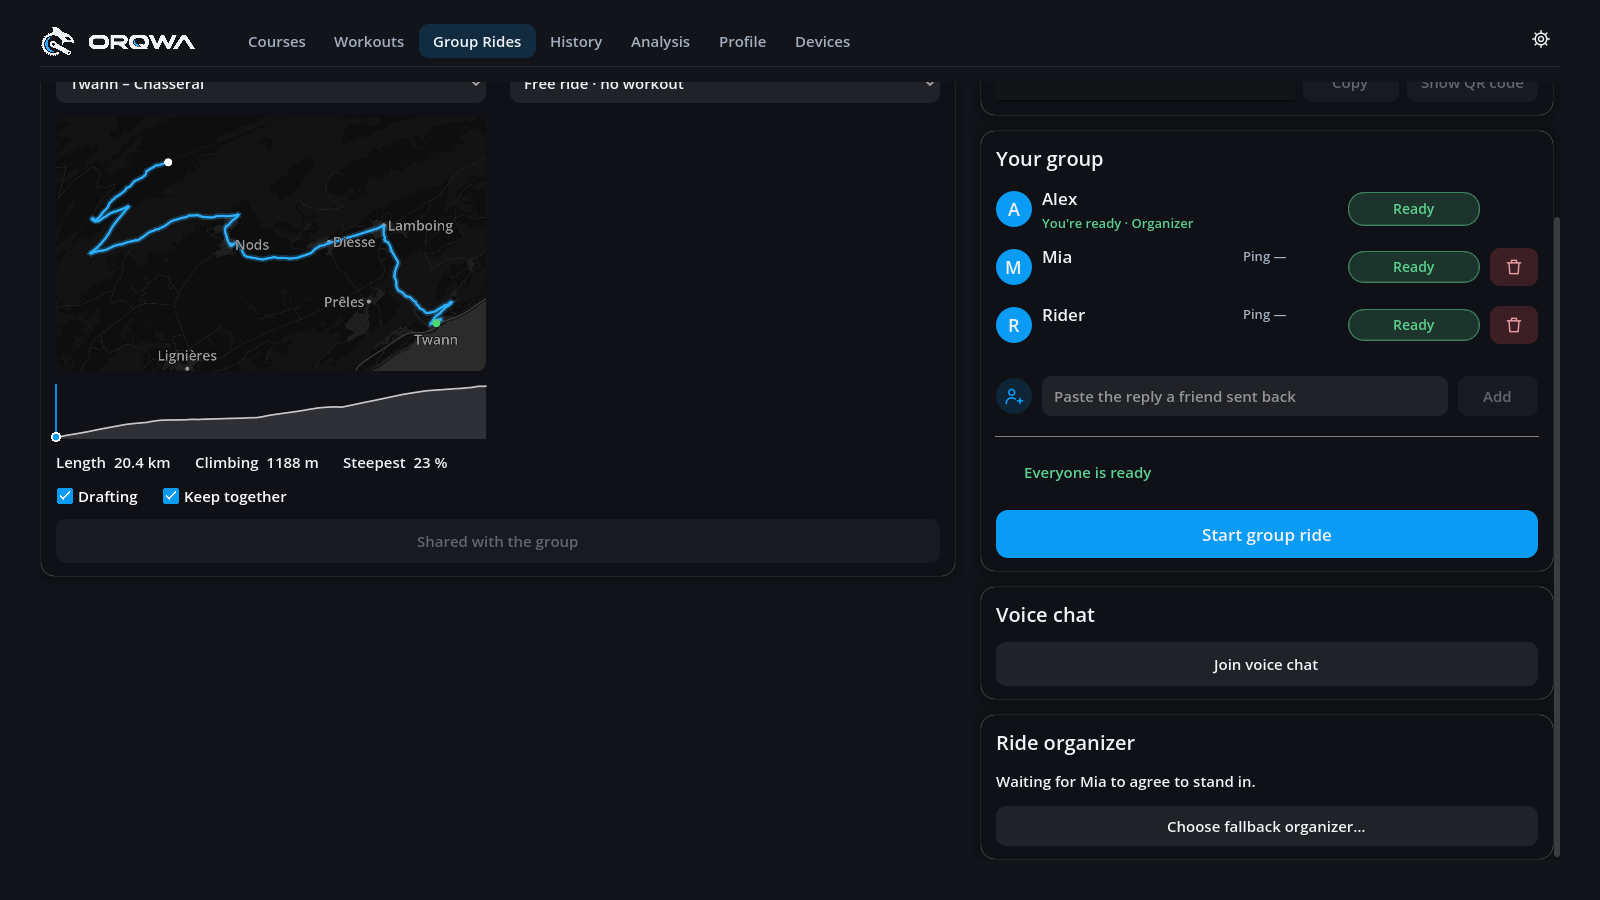
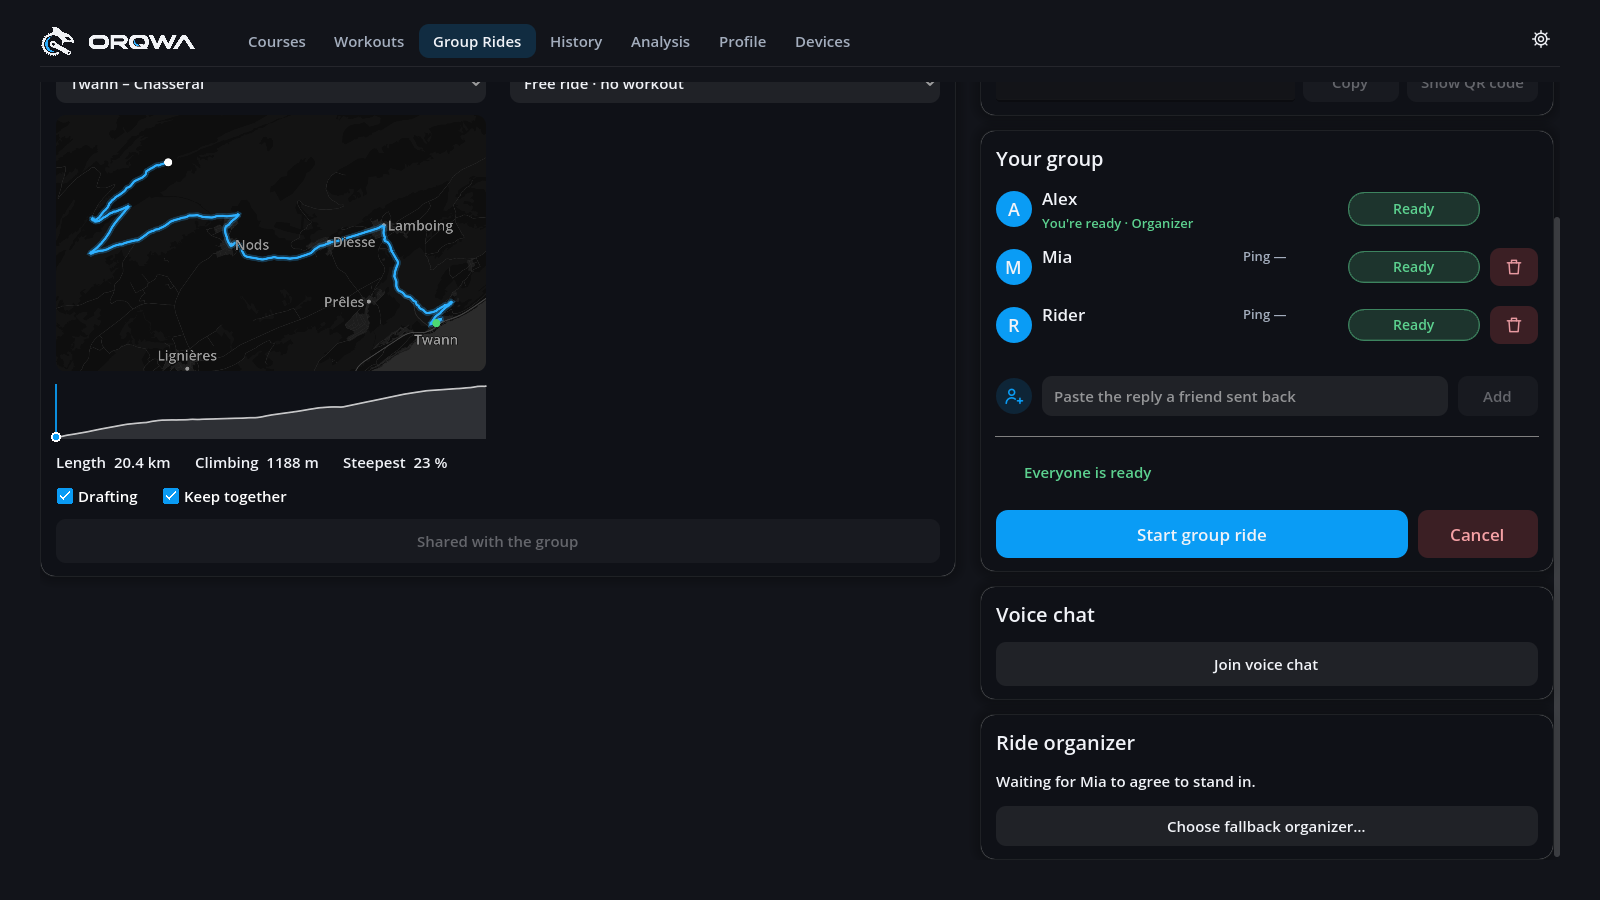
feat(group rides): cancel a shared course or workout before the start
The organizer can now withdraw what they shared while friends still download or
build it, not only during the countdown (#556, R252). Cancel stands beside Start
group ride; it stops friends' downloads and world building and returns everyone
to the lobby, still connected and with voice.

Closes #556

Changed region(s): [[0.875, 0.56, 0.9688, 0.6222], [0.7188, 0.5911, 0.8438, 0.6222]]

diff --git a/core/orqwa-gd/src/group.rs b/core/orqwa-gd/src/group.rs
@@ -89,7 +89,7 @@ pub(super) fn status(app: &App) -> VarDictionary {
         .preferred_fallback
         .and_then(|id| status.roster[usize::from(id)].as_ref())
         .map_or("", |rider| rider.name.as_str());
-    vdict! {"handover"=>status.handover.key(),"successor_name"=>successor_name,"handover_offer"=>status.handover==orqwa_app::group::Handover::Offered && status.successor==Some(status.me),"can_handover"=>status.can_handover(),"can_cancel_handover"=>status.handover!=orqwa_app::group::Handover::Idle && status.handover!=orqwa_app::group::Handover::Committing && (status.host || status.successor==Some(status.me)),"phase"=>status.phase.key(),"host"=>status.host,"invite"=>status.invite.as_str(),"reply"=>status.reply.as_str(),"reply_s"=>status.reply_until.map_or(0.0,|until|until.saturating_duration_since(std::time::Instant::now()).as_secs_f64()),"reply_expired"=>status.reply_expired,"admitting"=>i64::from(status.admitting),"refusal"=>status.refusal.key(),"refusals"=>i64::from(status.refusals),"refused"=>status.refused.as_str(),"reachability"=>status.reachability.map_or("",|reach| reach.key()),"prepared"=>status.prepared,"received"=>i64::try_from(status.received).unwrap_or(0),"total"=>i64::try_from(status.total).unwrap_or(0),"ready"=>status.ready[usize::from(status.me)],"can_start"=>status.can_start(),"workout_shared"=>status.plan.is_some() && matches!(status.phase,orqwa_app::group::Phase::Countdown | orqwa_app::group::Phase::Riding),"workout_paused"=>status.workout_clock.is_some_and(|clock|clock.paused),"local_paused"=>app.is_paused(),"can_control_workout"=>status.can_control_workout(),"workout_complete"=>status.workout_finished(),"late"=>status.late,"can_enter"=>status.can_enter(),"entering"=>status.entering,"name"=>status.selection.as_ref().map_or("",|s|s.name.as_str()),"error"=>status.error.as_str(),"can_retry"=>status.can_retry(),"activity_failed"=>status.activity_failed,"roster"=>&roster,"devices"=>&devices,"input_device"=>status.input_device.as_str(),"output_device"=>status.output_device.as_str(),"voice_volume"=>status.voice_volume,"echo_prevention"=>status.echo_prevention,"output_name"=>status.output_name.as_str(),"ask_listening"=>status.ask_listening,"microphone_test"=>status.microphone_test,"microphone_level"=>status.microphone_level,"speaker_test"=>status.speaker_test,"microphone_voice_detected"=>status.microphone_voice_detected,"microphone_voice_heard"=>status.microphone_voice_heard,"microphone_checked"=>status.microphone_checked,"voice"=>status.voice,"voice_pending"=>status.voice_pending,"microphone"=>status.microphone,"deafened"=>status.deafened,"countdown_s"=>status.start.map_or(0.0,|at|at.saturating_duration_since(std::time::Instant::now()).as_secs_f64()),"drafting"=>status.assistance.drafting,"keep_together"=>status.assistance.keep_together,"workout_id"=>status.workout_id.as_str(),"course_path"=>status.course.as_ref().map_or(String::new(),|p|p.display().to_string()),
+    vdict! {"handover"=>status.handover.key(),"successor_name"=>successor_name,"handover_offer"=>status.handover==orqwa_app::group::Handover::Offered && status.successor==Some(status.me),"can_handover"=>status.can_handover(),"can_cancel_handover"=>status.handover!=orqwa_app::group::Handover::Idle && status.handover!=orqwa_app::group::Handover::Committing && (status.host || status.successor==Some(status.me)),"phase"=>status.phase.key(),"host"=>status.host,"invite"=>status.invite.as_str(),"reply"=>status.reply.as_str(),"reply_s"=>status.reply_until.map_or(0.0,|until|until.saturating_duration_since(std::time::Instant::now()).as_secs_f64()),"reply_expired"=>status.reply_expired,"admitting"=>i64::from(status.admitting),"refusal"=>status.refusal.key(),"refusals"=>i64::from(status.refusals),"refused"=>status.refused.as_str(),"reachability"=>status.reachability.map_or("",|reach| reach.key()),"prepared"=>status.prepared,"received"=>i64::try_from(status.received).unwrap_or(0),"total"=>i64::try_from(status.total).unwrap_or(0),"ready"=>status.ready[usize::from(status.me)],"can_start"=>status.can_start(),"can_cancel"=>status.can_cancel_activity(),"workout_shared"=>status.plan.is_some() && matches!(status.phase,orqwa_app::group::Phase::Countdown | orqwa_app::group::Phase::Riding),"workout_paused"=>status.workout_clock.is_some_and(|clock|clock.paused),"local_paused"=>app.is_paused(),"can_control_workout"=>status.can_control_workout(),"workout_complete"=>status.workout_finished(),"late"=>status.late,"can_enter"=>status.can_enter(),"entering"=>status.entering,"name"=>status.selection.as_ref().map_or("",|s|s.name.as_str()),"error"=>status.error.as_str(),"can_retry"=>status.can_retry(),"activity_failed"=>status.activity_failed,"roster"=>&roster,"devices"=>&devices,"input_device"=>status.input_device.as_str(),"output_device"=>status.output_device.as_str(),"voice_volume"=>status.voice_volume,"echo_prevention"=>status.echo_prevention,"output_name"=>status.output_name.as_str(),"ask_listening"=>status.ask_listening,"microphone_test"=>status.microphone_test,"microphone_level"=>status.microphone_level,"speaker_test"=>status.speaker_test,"microphone_voice_detected"=>status.microphone_voice_detected,"microphone_voice_heard"=>status.microphone_voice_heard,"microphone_checked"=>status.microphone_checked,"voice"=>status.voice,"voice_pending"=>status.voice_pending,"microphone"=>status.microphone,"deafened"=>status.deafened,"countdown_s"=>status.start.map_or(0.0,|at|at.saturating_duration_since(std::time::Instant::now()).as_secs_f64()),"drafting"=>status.assistance.drafting,"keep_together"=>status.assistance.keep_together,"workout_id"=>status.workout_id.as_str(),"course_path"=>status.course.as_ref().map_or(String::new(),|p|p.display().to_string()),
     // Asked to stand in as organizer if the organizer is lost; the organizer may pick another.
     "standby_offer"=>status.standby_offer,"can_choose_fallback"=>status.can_choose_fallback(),"preferred_fallback"=>preferred_fallback,"preferred_fallback_accepted"=>status.preferred_fallback_accepted,"fallback_consent"=>status.fallback_consent.map_or(String::new(),|epoch|epoch.to_string()),
     // How long this rider keeps trying to reconnect, 0 while connected (#434).

diff --git a/core/orqwa-app/src/group/tests.rs b/core/orqwa-app/src/group/tests.rs
@@ -2327,6 +2327,60 @@ fn a_late_lobby_admission_receives_the_already_selected_course_without_a_local_c
 }
 
 #[test]
+fn the_organizer_withdraws_a_shared_course_while_friends_still_prepare_it() {
+    // #556: the organizer need not wait for everyone to be ready to change their mind.
+    let from = Directory::new();
+    let to = Directory::new();
+    let mut host = from.app();
+    let mut peer = to.app();
+    host.group_open(None, options()).unwrap();
+    wait(&mut host, &mut peer, |h, _| !h.group().invite.is_empty());
+    peer.group_open(Some(host.group().invite), options())
+        .unwrap();
+    wait(&mut host, &mut peer, |_, p| !p.group().reply.is_empty());
+    host.group_admit(&peer.group().reply).unwrap();
+    wait(&mut host, &mut peer, |h, p| {
+        h.group().roster.iter().flatten().count() == 2 && p.group().phase == Phase::Waiting
+    });
+    assert!(
+        !host.group().can_cancel_activity(),
+        "nothing is shared to withdraw"
+    );
+    host.group_select(Some(sample_course()), None).unwrap();
+    wait(&mut host, &mut peer, |h, p| {
+        h.group().can_cancel_activity()
+            && matches!(p.group().phase, Phase::Downloading | Phase::Preparing)
+    });
+    assert!(
+        peer.group_end_activity().is_err(),
+        "only the organizer withdraws the group's course"
+    );
+    host.group_end_activity().unwrap();
+    wait(&mut host, &mut peer, |h, p| {
+        h.group().phase == Phase::Waiting && p.group().phase == Phase::Waiting
+    });
+    for app in [&host, &peer] {
+        let status = app.group();
+        assert!(status.selection.is_none() && status.course.is_none());
+        assert!(!status.prepared && !status.ready.contains(&true));
+        assert!(app.group.as_ref().unwrap().preparing.is_none());
+        assert_eq!(status.roster.iter().flatten().count(), 2);
+    }
+    // What was withdrawn is not prepared afterwards, and something else can be shared.
+    for _ in 0..60 {
+        host.update(Duration::from_millis(16));
+        peer.update(Duration::from_millis(16));
+        assert!(peer.group().selection.is_none() && peer.world.is_none());
+        std::thread::sleep(Duration::from_millis(5));
+    }
+    host.group_select(None, Some("builtin:recovery-30"))
+        .unwrap();
+    wait(&mut host, &mut peer, |h, p| {
+        h.group().prepared && p.group().prepared && p.group().course.is_none()
+    });
+}
+
+#[test]
 fn a_friend_rides_their_own_copy_of_the_course_under_any_name_without_downloading_it() {
     use orqwa_storage::course;
     // #435: the organizer sent the course beforehand; the friend imported it under their own

diff --git a/core/orqwa-app/src/group.rs b/core/orqwa-app/src/group.rs
@@ -499,6 +499,19 @@ impl Snapshot {
             && self.start.is_some()
             && self.selection.is_some()
     }
+    /// The organizer may withdraw a shared activity before the start, also while friends
+    /// still download or build it (#556).
+    #[must_use]
+    pub fn can_cancel_activity(&self) -> bool {
+        self.host
+            && self.handover == Handover::Idle
+            && matches!(
+                self.phase,
+                Phase::Waiting | Phase::Downloading | Phase::Preparing | Phase::Ready
+            )
+            && self.start.is_none()
+            && self.selection.is_some()
+    }
     /// Tells the organizer why their pasted reply added nobody (R195).
     pub(crate) fn refuse(&mut self, refusal: Refusal) {
         self.refused.clear();
@@ -864,13 +877,14 @@ impl App {
                 }
             })
     }
-    /// Ends the shared activity for everyone and keeps this lobby for the next selection.
+    /// Ends the shared activity for everyone, or withdraws it before the start, and keeps
+    /// this lobby for the next selection.
     ///
     /// # Errors
-    /// Returns [`AppError`] unless organizing an active activity with an available queue.
+    /// Returns [`AppError`] unless organizing a shared activity with an available queue.
     pub fn group_end_activity(&mut self) -> Result<(), AppError> {
         let status = self.group();
-        if !status.can_end_activity() {
+        if !status.can_end_activity() && !status.can_cancel_activity() {
             return Err(error(
                 "Only the organizer can end the current group activity.",
             ));

diff --git a/core/orqwa-app/src/group/runtime.rs b/core/orqwa-app/src/group/runtime.rs
@@ -581,8 +581,10 @@ async fn run_inner(
                     }
                     Command::Start => start(&session,snapshot).await,
                     Command::End(revision) => async {
-                        if snapshot.host && snapshot.start.is_some() && snapshot.selection.as_ref().is_some_and(|s| s.revision == revision) {
+                        if snapshot.host && snapshot.selection.as_ref().is_some_and(|s| s.revision == revision) {
                             handover.cancel(&session,snapshot)?;
+                            // A newer choice still being hashed would otherwise be shared after the end.
+                            jobs.abort_all(); while jobs.join_next().await.is_some() {}
                             if let Session::Host(lobby) = &session {lobby.end_activity(revision).await.map_err(|error|error.to_string())?;}
                         }
                         Ok(())

diff --git a/core/orqwa-net/src/lobby.rs b/core/orqwa-net/src/lobby.rs
@@ -652,10 +652,11 @@ impl HostLobby {
             .map_err(|_| LobbyError::Lost)?;
         receive.await.map_err(|_| LobbyError::Lost)?
     }
-    /// Ends the current activity for everyone, preserving connections and voice.
+    /// Ends the current activity for everyone, preserving connections and voice. Before the
+    /// countdown this withdraws the selection while riders still download or build it.
     ///
     /// # Errors
-    /// Returns [`LobbyError`] for an obsolete revision, inactive activity or unavailable queue.
+    /// Returns [`LobbyError`] for an obsolete revision, no selection or an unavailable queue.
     pub async fn end_activity(&self, revision: u64) -> Result<(), LobbyError> {
         let (send, receive) = oneshot::channel();
         self.commands

diff --git a/core/orqwa-net/src/lobby/activity.rs b/core/orqwa-net/src/lobby/activity.rs
@@ -144,9 +144,10 @@ impl Activities {
         self.announced = (None, None);
         Ok(())
     }
+    /// Ends the selected `revision` for everyone, also before the countdown while riders
+    /// still download or build it (#556).
     pub(super) fn end(&mut self, revision: u64) -> Result<(), LobbyError> {
         if !self.enabled
-            || !self.started
             || self
                 .lobby
                 .selection()

diff --git a/docs/REQUIREMENTS.md b/docs/REQUIREMENTS.md
@@ -711,3 +711,4 @@ Click, R75), and a Zwift Click v2 (R77, R96).
 |---|---|
 | R250 | Extends R186 and R248 (2026-11-15, #536): when the network under a friend's ORQWA changes (another Wi-Fi, a cable, a new address), ORQWA notices **within seconds** rather than after the connection's 30 s timeout, starts reconnecting at once and says that reconnecting cannot work from the changed network: the page offers **Join again** at once, and no **Reconnect now**. Join again is offered **while reconnecting** too, not only once the group connection has ended. The organizer adds the new reply as any, also while ORQWA still counts that friend as connected: a reply from them with new addresses ends the old connection and holds the friend's place, so they get **their seat back**. Where the organizer's network lets the friend's new address in, they are back in their held seat before the organizer adds anything. The same reply added again, or one from where the friend already connects, still says it was added already. |
 | R251 | Refines R187 (2026-11-15): a fallback organizer whose own connection drops does **not** take over: after the organizer has been unreachable for half a minute, it takes over only when the friends it still reaches all lost the organizer too, or the organizer left for good. A fallback that reaches nobody lost its own network, and once back it rides on in the group under the same organizer. |
+| R252 | Refines R237 and R238 (2026-11-15, #556): once the organizer has shared a course or workout, **Cancel** stands beside **Start group ride** before the countdown too, while friends still download or build the ride or are not yet ready. It withdraws the shared activity for everyone: their downloads and world building stop, and everyone is back in the lobby, connected and with voice, to share the same or another activity. Friends cannot withdraw it. During the countdown Cancel replaces Start as before. |

diff --git a/docs/adr/0037-group-ride-activities.md b/docs/adr/0037-group-ride-activities.md
@@ -702,3 +702,14 @@ selection still repeats them. The organizer's change is acknowledged by its lobb
 than dropped on a full queue, as only the latest choice counts. Protocol/invitation version 18
 and ALPN `orqwa-group/18` keep older clients from silently missing it. No endpoint, service or
 dependency changes.
+
+### Withdrawing before the start — 2026-11-15
+
+R252 lets the organizer end the selected revision before the countdown, not only during it or
+while riding (#556). The activity actor's end no longer requires a started activity, only the
+current selection's revision, and sends the same `Lobby(ended_revision)` control. Friends
+already took that control before a start: it stops selected-content serving, so their
+downloads end, and their apps cancel world building as for any end. The organizer's app also
+drops a newer choice still being hashed, so nothing ended is shared afterwards. A delayed or
+repeated end still cannot touch a later revision. The control and its meaning are unchanged, so
+no protocol or invitation version change; no endpoint, service or dependency changes.

diff --git a/docs/PLAN.md b/docs/PLAN.md
@@ -1127,6 +1127,8 @@ main. Each step has its own PR and preserves the security limits in ADR 0035.
 - [x] Organizer setup in the lobby (R238): show the fallback choice before Start, remember a
   connected friend's consent immediately, retain it across rides, explain the solo case, and replace Start
   with Cancel in the same action slot during countdown
+- [x] Withdraw a shared course or workout before the start (R252, #556): Cancel beside Start
+  stops friends' downloads and world building and returns the group to the lobby
 - [x] Automatically choose and ask a fallback in the lobby (R239), try another after a decline,
   timeout or departure, retain manual override and consent across rides, and still replace the
   fallback during a ride after the original organizer is lost
